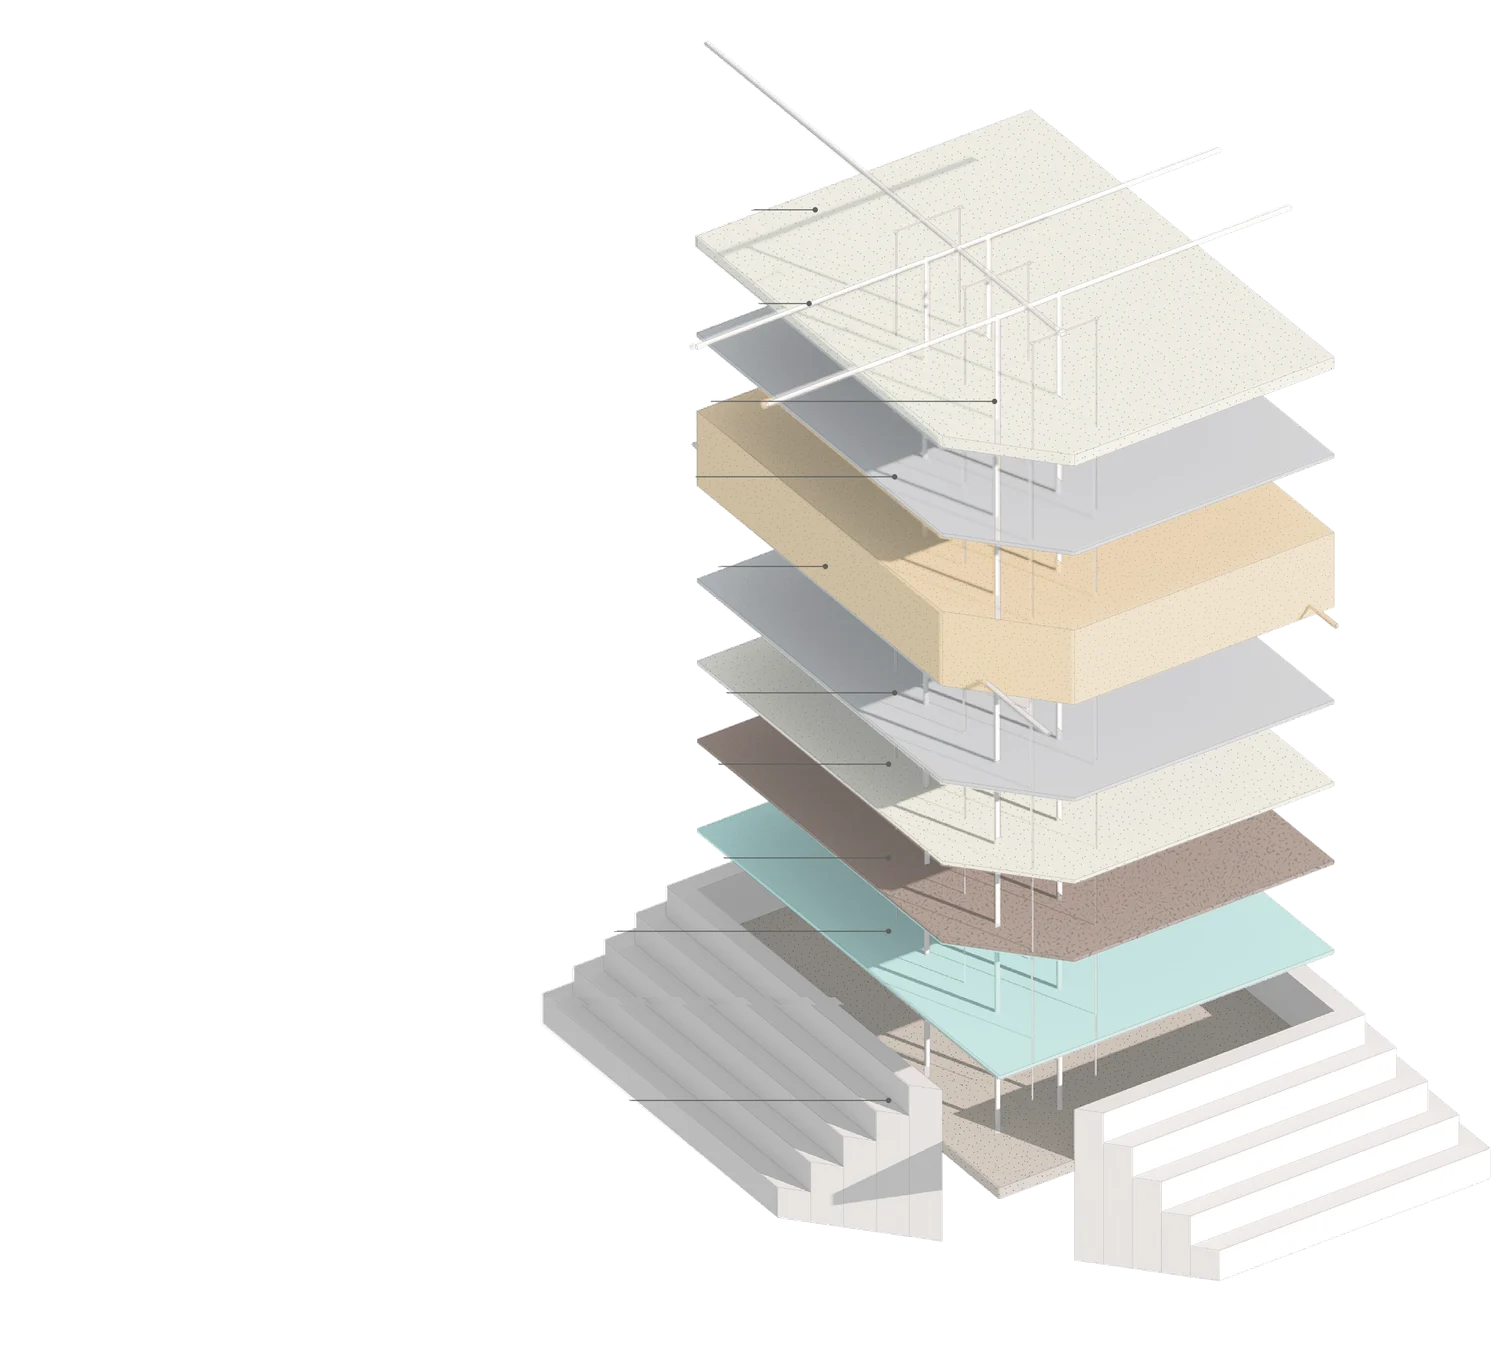
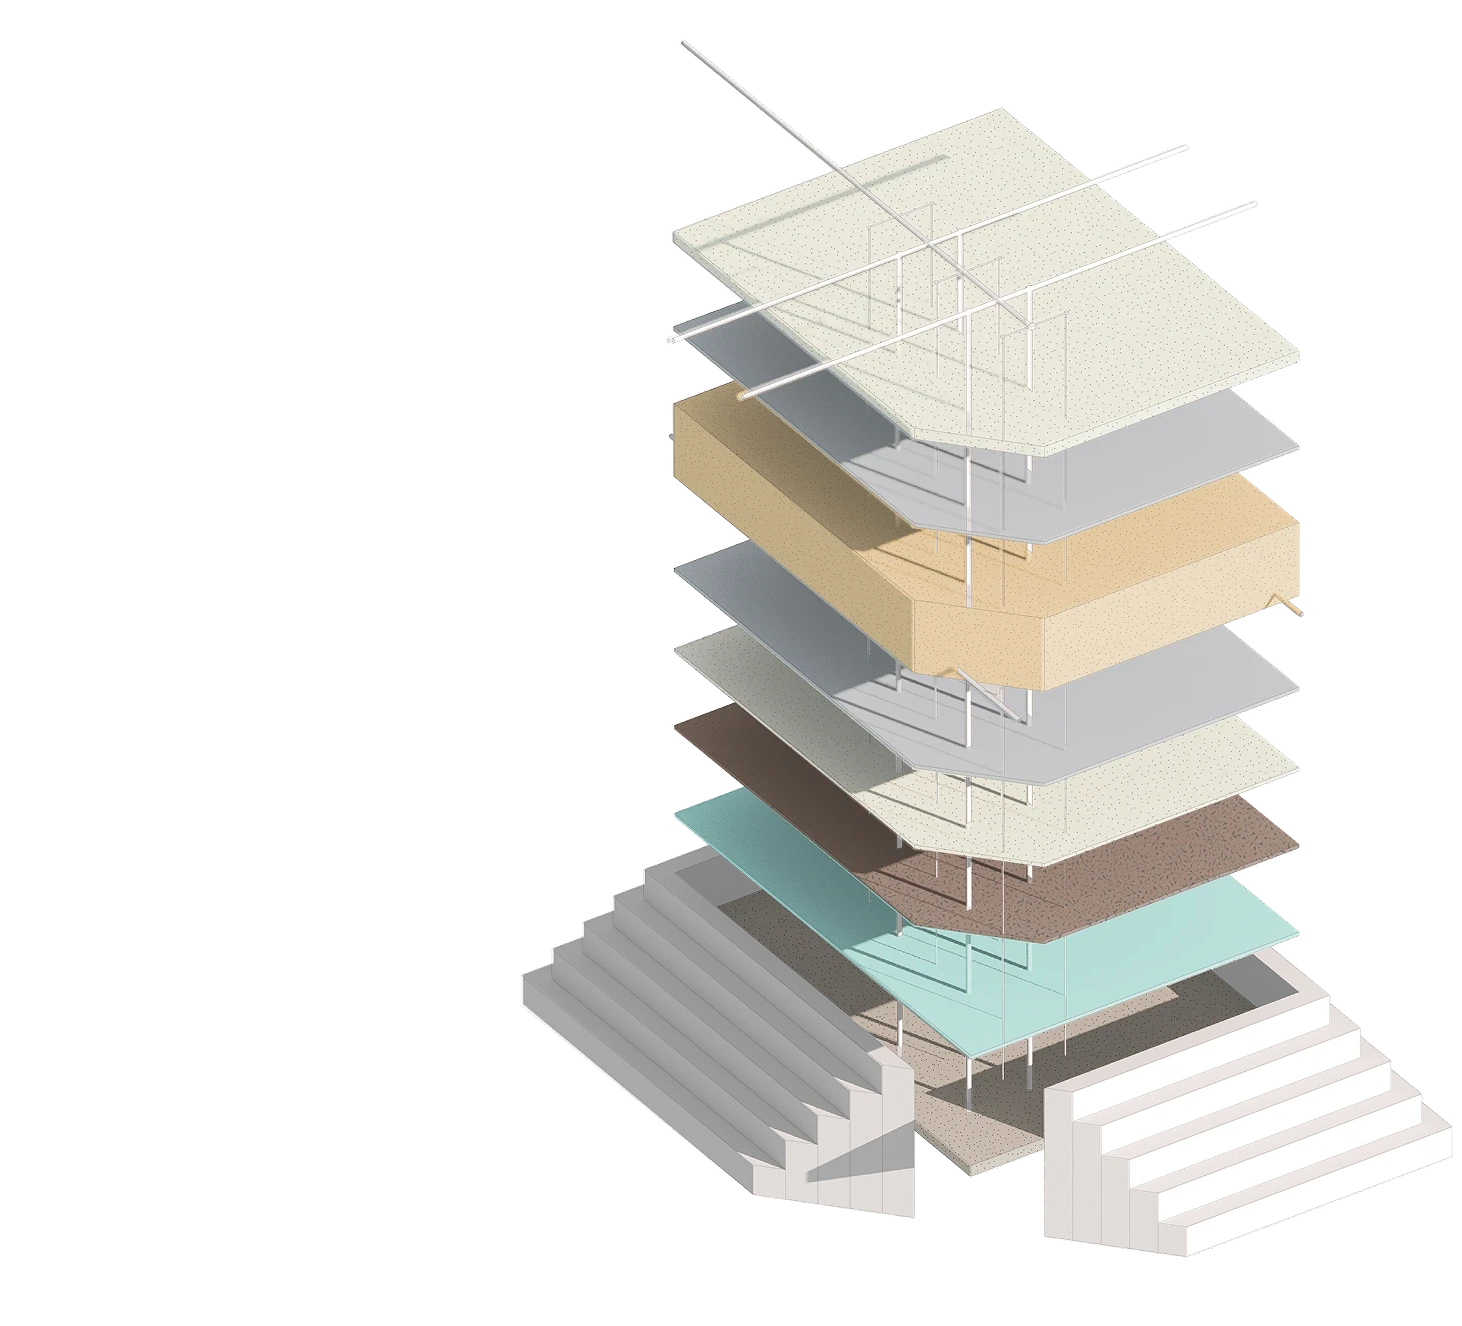
Method diagrams: original warm artwork + measured leaders, v1 typography
Per review: the artwork and label typography go back to the version that
was live (the original transparent warm-toned exports, sentence-case
11.5px labels), while the leader positions keep the coordinates measured
off the designer's labelled export. The two exports were registered via
their solid-pixel bounding boxes (density-based, so the landfill's soft
shadow and the thermal's faint stair alpha don't skew it; aspect ratios
agree to ~0.1%) and the measured points mapped through that transform.
Overlay proofs confirmed the two artworks align layer-for-layer.

The final canvases are the old artwork plus a transparent left gutter for
the labels, so displayed percentages still map 1:1 and the baked grey
line stubs from the new export (the "double line" artefact) are gone with
it - the old artwork never had baked leaders.

Claude-Session: https://claude.ai/code/session_0162ZbwK7cUKGE1rpfdzmk7Z

diff --git a/src/content/actions/methods.ts b/src/content/actions/methods.ts
@@ -1,11 +1,12 @@
 // Act II — the two retained methods, explained layer by layer with the
-// project's Rhino-modelled exploded axonometrics. The bare artwork is derived
-// from the designer's labelled Figma export (white ground knocked out; baked
-// text, leaders and paper grain removed at asset-build time), and every
-// leader's y / endpoint below was MEASURED off that same export, so the lines
-// land exactly where the designer put them while the labels stay crisp,
-// hoverable HTML text. Coordinates are % of the artwork canvas, which the
-// diagram wrapper reproduces exactly (same aspect ratio, image fills it).
+// project's Rhino-modelled exploded axonometrics (the original transparent
+// exports, warm-toned). Every leader's y / endpoint below was MEASURED off
+// the designer's labelled Figma export, then mapped onto this artwork via
+// the two exports' solid-pixel bounding boxes (aspect ratios agree to ~0.1%,
+// alignment verified by overlay), so the lines land exactly where the
+// designer put them while the labels stay crisp, hoverable HTML text.
+// Coordinates are % of the image canvas (artwork + transparent left gutter
+// for the labels), which the diagram wrapper reproduces exactly.
 
 import landfillImg from '../../assets/actions/diagram-landfill.webp'
 import thermalImg from '../../assets/actions/diagram-thermal.webp'
@@ -55,20 +56,20 @@ export const METHODS: Method[] = [
     photo: landfillPhoto,
     imgAlt:
       'Exploded axonometric of the passive landfill, top to bottom: grass, soil, geocomposite layer, plastic (LLDPE) geomembrane, clay, the contaminant, plastic geomembrane, geocomposite layer, plastic geomembrane, clay, and the compacted soil subgrade.',
-    aspect: 1.1542,
-    labelX: 33.7,
+    aspect: 1.1223,
+    labelX: 33.5,
     layers: [
-      { text: 'Grass', y: 13.8, endX: 53.2 },
-      { text: 'Soil', y: 29.7, endX: 46.9 },
-      { text: 'Geocomposite layer', y: 36.9, endX: 48.1 },
-      { text: 'Plastic (LLDPE) geomembrane', y: 43.0, endX: 47.9 },
-      { text: 'Clay', y: 50.6, endX: 56.5 },
-      { text: 'Contaminant', y: 55.6, endX: 47.1 },
-      { text: 'Plastic (LLDPE) geomembrane', y: 62.8, endX: 49.2 },
-      { text: 'Geocomposite layer', y: 69.6, endX: 47.3 },
-      { text: 'Plastic (LLDPE) geomembrane', y: 73.7, endX: 41.7 },
-      { text: 'Clay', y: 80.0, endX: 43.7 },
-      { text: 'Compacted soil subgrade', y: 87.4, endX: 51.5 },
+      { text: 'Grass cap', y: 13.76, endX: 51.94 },
+      { text: 'Soil', y: 29.68, endX: 45.41 },
+      { text: 'Geocomposite layer', y: 36.86, endX: 46.67 },
+      { text: 'Plastic (LLDPE) geomembrane', y: 42.95, endX: 46.4 },
+      { text: 'Clay', y: 50.6, endX: 55.26 },
+      { text: 'Contaminant', y: 55.62, endX: 45.57 },
+      { text: 'Plastic (LLDPE) geomembrane', y: 62.78, endX: 47.73 },
+      { text: 'Geocomposite layer', y: 69.64, endX: 45.8 },
+      { text: 'Plastic (LLDPE) geomembrane', y: 73.7, endX: 40.08 },
+      { text: 'Clay', y: 80.1, endX: 42.15 },
+      { text: 'Compacted soil subgrade', y: 87.44, endX: 50.15 },
     ],
   },
   {
@@ -81,20 +82,20 @@ export const METHODS: Method[] = [
     photo: thermalPhoto,
     imgAlt:
       'Exploded axonometric of the thermal treatment pile, top to bottom: sand, offgas collecting pipe, heater well, metal sheet, the contaminant, metal sheet, sand, crushed stone, plastic liner, soil, and the brick pile base.',
-    aspect: 1.1101,
-    labelX: 34.0,
+    aspect: 1.1026,
+    labelX: 33.5,
     layers: [
-      { text: 'Sand', y: 15.5, endX: 51.1 },
-      { text: 'Offgas collecting pipe', y: 22.5, endX: 51.2 },
-      { text: 'Heater well', y: 29.7, endX: 48.2 },
-      { text: 'Metal sheet', y: 35.3, endX: 47.2 },
-      { text: 'Contaminant', y: 41.9, endX: 49.0 },
-      { text: 'Metal sheet', y: 51.3, endX: 49.5 },
-      { text: 'Sand', y: 56.5, endX: 48.9 },
-      { text: 'Crushed stone', y: 63.5, endX: 48.9 },
-      { text: 'Plastic liner', y: 68.9, endX: 42.1 },
-      { text: 'Soil', y: 74.1, endX: 59.2 },
-      { text: 'Brick pile', y: 81.4, endX: 43.1 },
+      { text: 'Sand', y: 15.56, endX: 50.83 },
+      { text: 'Offgas collecting pipe', y: 22.49, endX: 50.95 },
+      { text: 'Heater well', y: 29.72, endX: 47.93 },
+      { text: 'Metal sheet', y: 35.3, endX: 46.89 },
+      { text: 'Contaminant', y: 41.93, endX: 48.74 },
+      { text: 'Metal sheet', y: 51.27, endX: 49.25 },
+      { text: 'Sand', y: 56.55, endX: 48.61 },
+      { text: 'Crushed stone', y: 63.47, endX: 48.62 },
+      { text: 'Plastic liner', y: 68.9, endX: 41.81 },
+      { text: 'Soil', y: 74.06, endX: 59.0 },
+      { text: 'Brick pile', y: 81.41, endX: 42.75 },
     ],
   },
 ]

diff --git a/src/pages/Story.css b/src/pages/Story.css
@@ -3199,12 +3199,10 @@
   max-width: 27%;
   transform: translateY(-50%);
   font-size: 11.5px;
-  font-weight: 600;
-  letter-spacing: 0.04em;
-  text-transform: uppercase;
-  line-height: 1.22;
+  font-weight: 500;
+  line-height: 1.25;
   text-align: right;
-  color: rgba(255, 255, 255, 0.92);
+  color: rgba(255, 255, 255, 0.9);
   pointer-events: auto;
   cursor: default;
   transition: color 0.15s;
